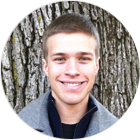
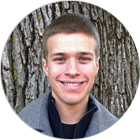
Updates
Added Sundial and Appkit to portfolio
Updated avatar
Updated resume content
Improved text size of subtitles in portfolio

diff --git a/index.html b/index.html
@@ -192,10 +192,10 @@
                         <h3 class="title with-icon"><i class="fa fa-male icn-title"></i> Activities</h3>
                         <div class="box-block">
                           <ul class="list-unstyled list-strip">
-                            <li><i class="fa fa-check"></i> Technology Innovation Scholars Program (TISP)</li>
-                            <li><i class="fa fa-check"></i> FIRST Robotics Mentor</li>
-                            <li><i class="fa fa-check"></i> Teaching Assitant</li>
-                            <li><i class="fa fa-check"></i> Motorcycle Enthusiast</li>
+                            <li><i class="fa fa-check"></i> Motorcycles</li>
+                            <li><i class="fa fa-check"></i> Scuba Diving</li>
+                            <li><i class="fa fa-check"></i> Billiards</li>
+                            <li><i class="fa fa-check"></i> Piano</li>
                           </ul>
                         </div>
                       </div>
@@ -416,14 +416,14 @@
 
 
                           <!-- =========
-                          STart your Skills Progress bars section
+                          Start Skills Progress bars section
                           ===================================-->
                           <ul class="list-unstyled list-skills">
                             <li>
                               <span class="caption-skill">Python</span>
                               <div class="progress">
-                                <div class="progress-bar" style="width: 90%;">
-                                  <span>90% </span>
+                                <div class="progress-bar" style="width: 95%;">
+                                  <span>95% </span>
                                 </div>
                               </div>
                             </li>
@@ -438,8 +438,8 @@
                             <li>
                               <span class="caption-skill">MATLAB</span>
                               <div class="progress">
-                                <div class="progress-bar" style="width: 95%;">
-                                  <span>95% </span>
+                                <div class="progress-bar" style="width: 90%;">
+                                  <span>90% </span>
                                 </div>
                               </div>
                             </li>
@@ -462,7 +462,7 @@
                             <li>
                           </ul>
                           <!-- =========
-                          End your Skills Progress bars section
+                          End Skills Progress bars section
                           ===================================-->
 
                         </div>
@@ -471,7 +471,7 @@
                         <div class="box-block">
 
                           <!-- =========
-                          STart your Skills Progress point bars section
+                          STart Skills Progress point bars section
                           ===================================-->
                           <ul class="list-unstyled list-points-progress">
                             <li>
@@ -503,7 +503,7 @@
                               </div>
                             </li>
                             <li>
-                              <span class="caption-skill">InterSystems Zen Mojo</span>
+                              <span class="caption-skill">Django</span>
                               <div class="pogress-point">
                                 <span class="point-indicator">85%</span>
                                 <div class="progress-bar-point" style="width: 85%;"></div>
@@ -511,7 +511,7 @@
                             </li>
                           </ul>
                           <!-- =========
-                          STart your Skills Progress point bars section
+                          End Skills Progress point bars section
                           ===================================-->
 
 
@@ -522,8 +522,8 @@
                           <ul class="list-unstyled list-strip">
                             <li><i class="fa fa-check"></i> iOS Development</li>
                             <li><i class="fa fa-check"></i> Android Development</li>
+                            <li><i class="fa fa-check"></i> Node.js</li>
                             <li><i class="fa fa-check"></i> PHP</li>
-                            <li><i class="fa fa-check"></i> Shell Scripting</li>
                           </ul>
                         </div>
                         <div class="deviter"></div>
@@ -575,81 +575,100 @@
                             <div class="mask"><div class="icn-center"><i class="fa fa-picture-o"></i></div></div>
                             <img src="assets/images/portfolio/SystemTestWeb.png" alt="" class="img-responsive"/>
                           </a>
-                          <div class="desc-portfolio"><h5>SYSTEM TEST WEB <small>GE Intelligent Platforms</small></h5></div>
+                          <div class="desc-portfolio"><h5>SYSTEM TEST WEB <small>A RESTful API and web application for testing embedded systems</small></h5></div>
                         </div>
                       </li>
+                      
                       <li class="mix bu">
                         <div class="item-portfolio">
                           <a href="http://reclo.github.io/" class="preview-portfolio imgWrapper popup-iframe">
                             <div class="mask"><div class="icn-center"><i class="fa fa-link"></i></div></div>
                             <img src="assets/images/portfolio/ReClo.png" alt="" class="img-responsive"/>
                           </a>
-                          <div class="desc-portfolio"><h5>RECOVERY IN THE CLOUD <small>EC500 Cloud Computing</small></h5></div>
+                          <div class="desc-portfolio"><h5>RECOVERY IN THE CLOUD <small>A backup and recovery tool for small businesses</small></h5></div>
                         </div>
                       </li>
+                      
+                      <li class="mix bu">
+                        <div class="item-portfolio">
+                          <a href="https://goo.gl/5wmbwj" class="preview-portfolio imgWrapper popup-iframe">
+                            <div class="mask"><div class="icn-center"><i class="fa fa-link"></i></div></div>
+                            <img src="assets/images/portfolio/Apekit.png" alt="" class="img-responsive"/>
+                          </a>
+                          <div class="desc-portfolio"><h5>APEKIT <small>Android application vulnerability analysis toolkit</small></h5></div>
+                        </div>
+                      </li>
+                     
+                      <!-- second row -->
+                      <li class="mix bu">
+                        <div class="item-portfolio">
+                          <a href="https://goo.gl/xaCqDp" class="preview-portfolio imgWrapper popup-iframe">
+                            <div class="mask"><div class="icn-center"><i class="fa fa-link"></i></div></div>
+                            <img src="assets/images/portfolio/Sundial.png" alt="" class="img-responsive"/>
+                          </a>
+                          <div class="desc-portfolio"><h5>SUNDIAL<small>A mesh network of monitored solar devices in rural Senegal</small></h5></div>
+                        </div>
+                      </li>
+                      
                       <li class="mix professional">
                         <div class="item-portfolio">
                           <a href="assets/images/portfolio/big/FacMgr-big.png" class="preview-portfolio imgWrapper image-popup">
                             <div class="mask"><div class="icn-center"><i class="fa fa-picture-o"></i></div></div>
                             <img src="assets/images/portfolio/FacMgr.png" alt="" class="img-responsive"/>
                           </a>
-                          <div class="desc-portfolio"><h5>FACILITIES MANAGER <small>InterSystems Corporation</small></h5></div>
+                          <div class="desc-portfolio"><h5>FACILITIES MANAGER <small>A mobile ticketing system for facilities maintenance</small></h5></div>
                         </div>
                       </li>
-                      <!-- second row -->
+                      
                       <li class="mix bu">
                         <div class="item-portfolio">
                           <a href="assets/images/portfolio/big/EZ-Resistor-big.png" class="preview-portfolio imgWrapper image-popup">
                             <div class="mask"><div class="icn-center"><i class="fa fa-picture-o"></i></div></div>
                             <img src="assets/images/portfolio/EZ-Resistor.png" alt="" class="img-responsive"/>
                           </a>
-                          <div class="desc-portfolio"><h5>EZ-RESISTOR <small>EC327 Software Engineering</small></h5></div>
+                          <div class="desc-portfolio"><h5>EZ-RESISTOR <small>A handy utility for working with resistors and circuits</small></h5></div>
                         </div>
                       </li>
+                      
+                      <!-- third row -->
                       <li class="mix individual">
                         <div class="item-portfolio">
                           <a href="assets/images/portfolio/big/SL125-big.png" class="preview-portfolio imgWrapper image-popup">
                             <div class="mask"><div class="icn-center"><i class="fa fa-picture-o"></i></div></div>
                             <img src="assets/images/portfolio/SL125.png" alt="" class="img-responsive"/>
                           </a>
-                          <div class="desc-portfolio"><h5>1972 HONDA SL125 <small>Vintage Motorcycle Restoration</small></h5></div>
+                          <div class="desc-portfolio"><h5>1972 HONDA SL125 <small>My first motorcycle restoration project</small></h5></div>
                         </div>
                       </li>
+                      
                       <li class="mix bu">
                         <div class="item-portfolio">
                           <a href="assets/images/portfolio/big/AltSpringBreak-big.png" class="preview-portfolio imgWrapper image-popup">
                             <div class="mask"><div class="icn-center"><i class="fa fa-picture-o"></i></div></div>
                             <img src="assets/images/portfolio/AltSpringBreak.png" alt="" class="img-responsive"/>
                           </a>
-                          <div class="desc-portfolio"><h5>HABITAT FOR HUMANITY<small>Ft. Smith, Arkansas</small></h5></div>
+                          <div class="desc-portfolio"><h5>HABITAT FOR HUMANITY<small>A week of community service and hard work in Ft. Smith Arkansas</small></h5></div>
                         </div>
                       </li>
-                      <!-- third row -->
+                      
                       <li class="mix bu">
                         <div class="item-portfolio">
                           <a href="https://www.youtube.com/watch?v=ugN0bolKuOI" class="preview-portfolio imgWrapper popup-iframe">
                             <div class="mask"><div class="icn-center"><i class="fa fa-youtube"></i></div></div>
                             <img src="assets/images/portfolio/Elevator.png" alt="" class="img-responsive"/>
                           </a>
-                          <div class="desc-portfolio"><h5>ELEVATOR SYSTEM <small>EC450 Microprocessors</small></h5></div>
+                          <div class="desc-portfolio"><h5>ELEVATOR SYSTEM <small>A scale model elevator and digital control system</small></h5></div>
                         </div>
                       </li>
+                      
+                      <!-- fourth row -->
                       <li class="mix individual">
                         <div class="item-portfolio">
                           <a href="assets/images/portfolio/big/BinaryClock-big.png" class="preview-portfolio imgWrapper image-popup">
                             <div class="mask"><div class="icn-center"><i class="fa fa-picture-o"></i></div></div>
                             <img src="assets/images/portfolio/BinaryClock.png" alt="" class="img-responsive"/>
                           </a>
-                          <div class="desc-portfolio"><h5>BINARY CLOCK <small>Microcontroller Project</small></h5></div>
-                        </div>
-                      </li>
-                      <li class="mix bu">
-                        <div class="item-portfolio">
-                          <a href="assets/images/portfolio/big/FarnySimulator-big.png" class="preview-portfolio imgWrapper image-popup">
-                            <div class="mask"><div class="icn-center"><i class="fa fa-picture-o"></i></div></div>
-                            <img src="assets/images/portfolio/FarnySimulator.png" alt="" class="img-responsive"/>
-                          </a>
-                          <div class="desc-portfolio"><h5>THE FARNY SIMULATOR <small>Truss Simulation Software</small></h5></div>
+                          <div class="desc-portfolio"><h5>BINARY CLOCK <small>A binary clock driven by a microcontroller</small></h5></div>
                         </div>
                       </li>
                       <!-- fourth row -->

diff --git a/assets/css/style.css b/assets/css/style.css
@@ -605,6 +605,7 @@ Main Section Section
 #portfolio .grid-portfolio .item-portfolio .desc-portfolio h5 small {
   display: block;
   margin-bottom: 10px;
+  font-size: 100%; /* cduffett - added 12/14/2015 */
 }
 /* End Stlye wrapper for portfolio content section*/
 /* Start Stlye wrapper for blog content section*/
